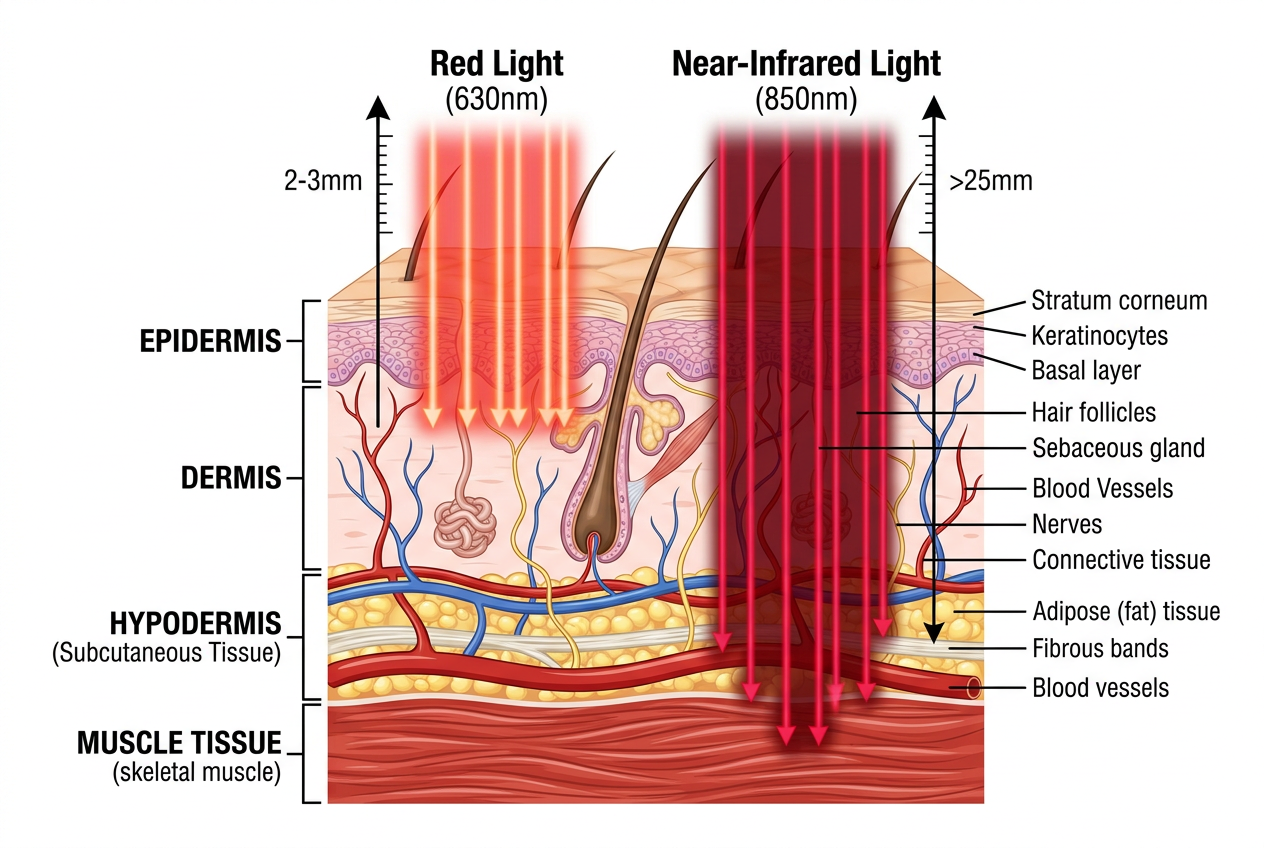
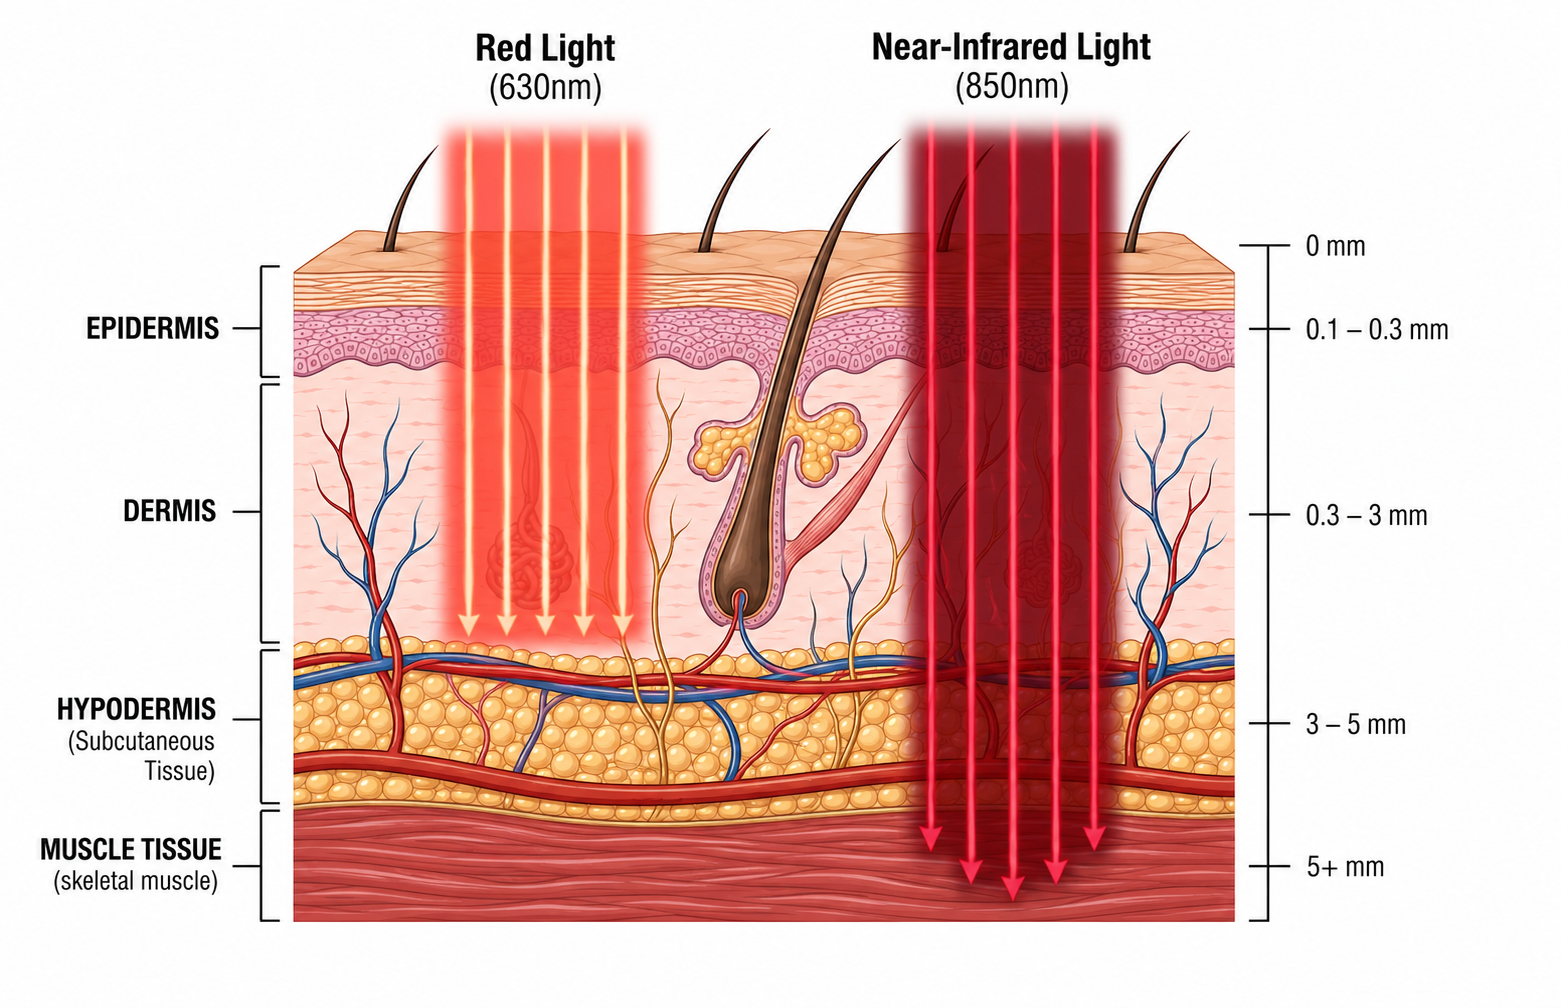
V21b: Replace skin cross-section diagram with new wavelength penetration image

diff --git a/index.html b/index.html
@@ -4,14 +4,14 @@
     <meta charset="UTF-8" />
     <meta name="viewport" content="width=device-width, initial-scale=1.0" />
     <title>Zero Lines — LED Light Therapy Science</title>
-    <script type="module" crossorigin src="./dist/assets/index-t23lzatK.js"></script>
-    <link rel="stylesheet" crossorigin href="./dist/assets/index-DXcwN8vf.css">
   <style>
     @media (max-width: 639px) {
       #faq .max-w-\[760px\] { padding-left: 24px !important; padding-right: 24px !important; }
     }
     footer ~ #cost-comparison, footer ~ div[id*="cost"] { display: none !important; }
   </style>
+    <script type="module" crossorigin src="./dist/assets/index-BTEomxAM.js"></script>
+    <link rel="stylesheet" crossorigin href="./dist/assets/index-DXcwN8vf.css">
   </head>
   <body>
     <div id="root"></div>